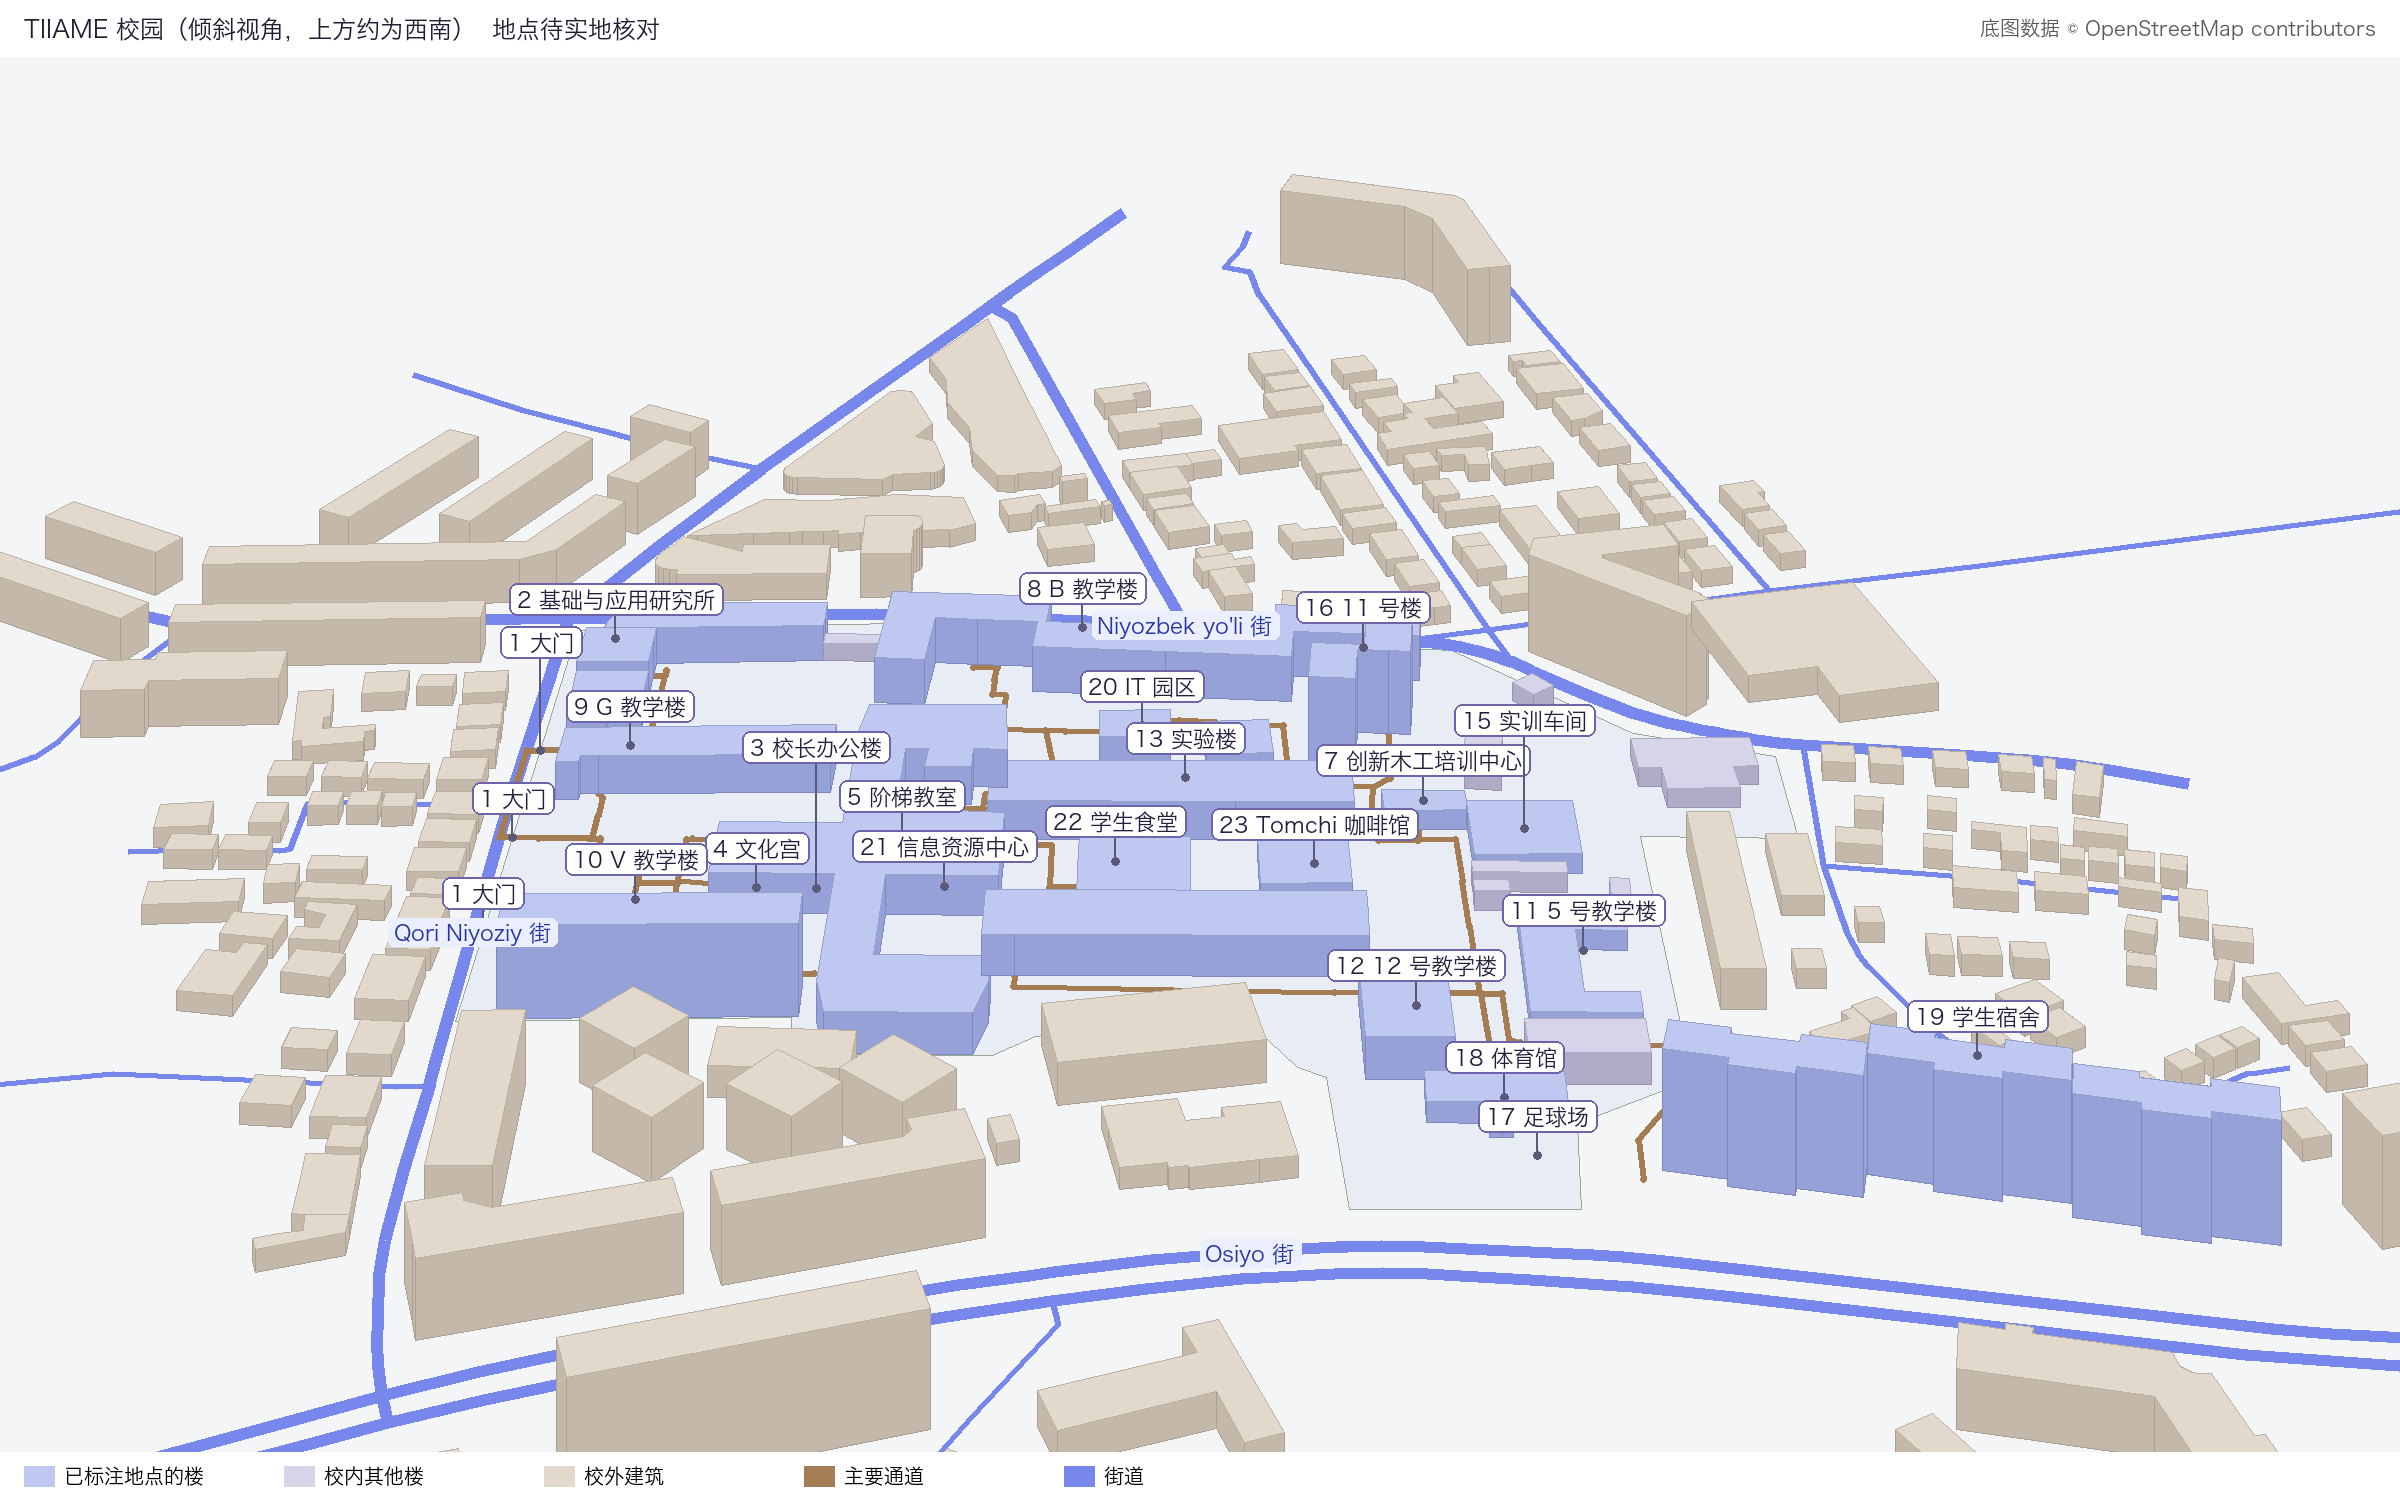
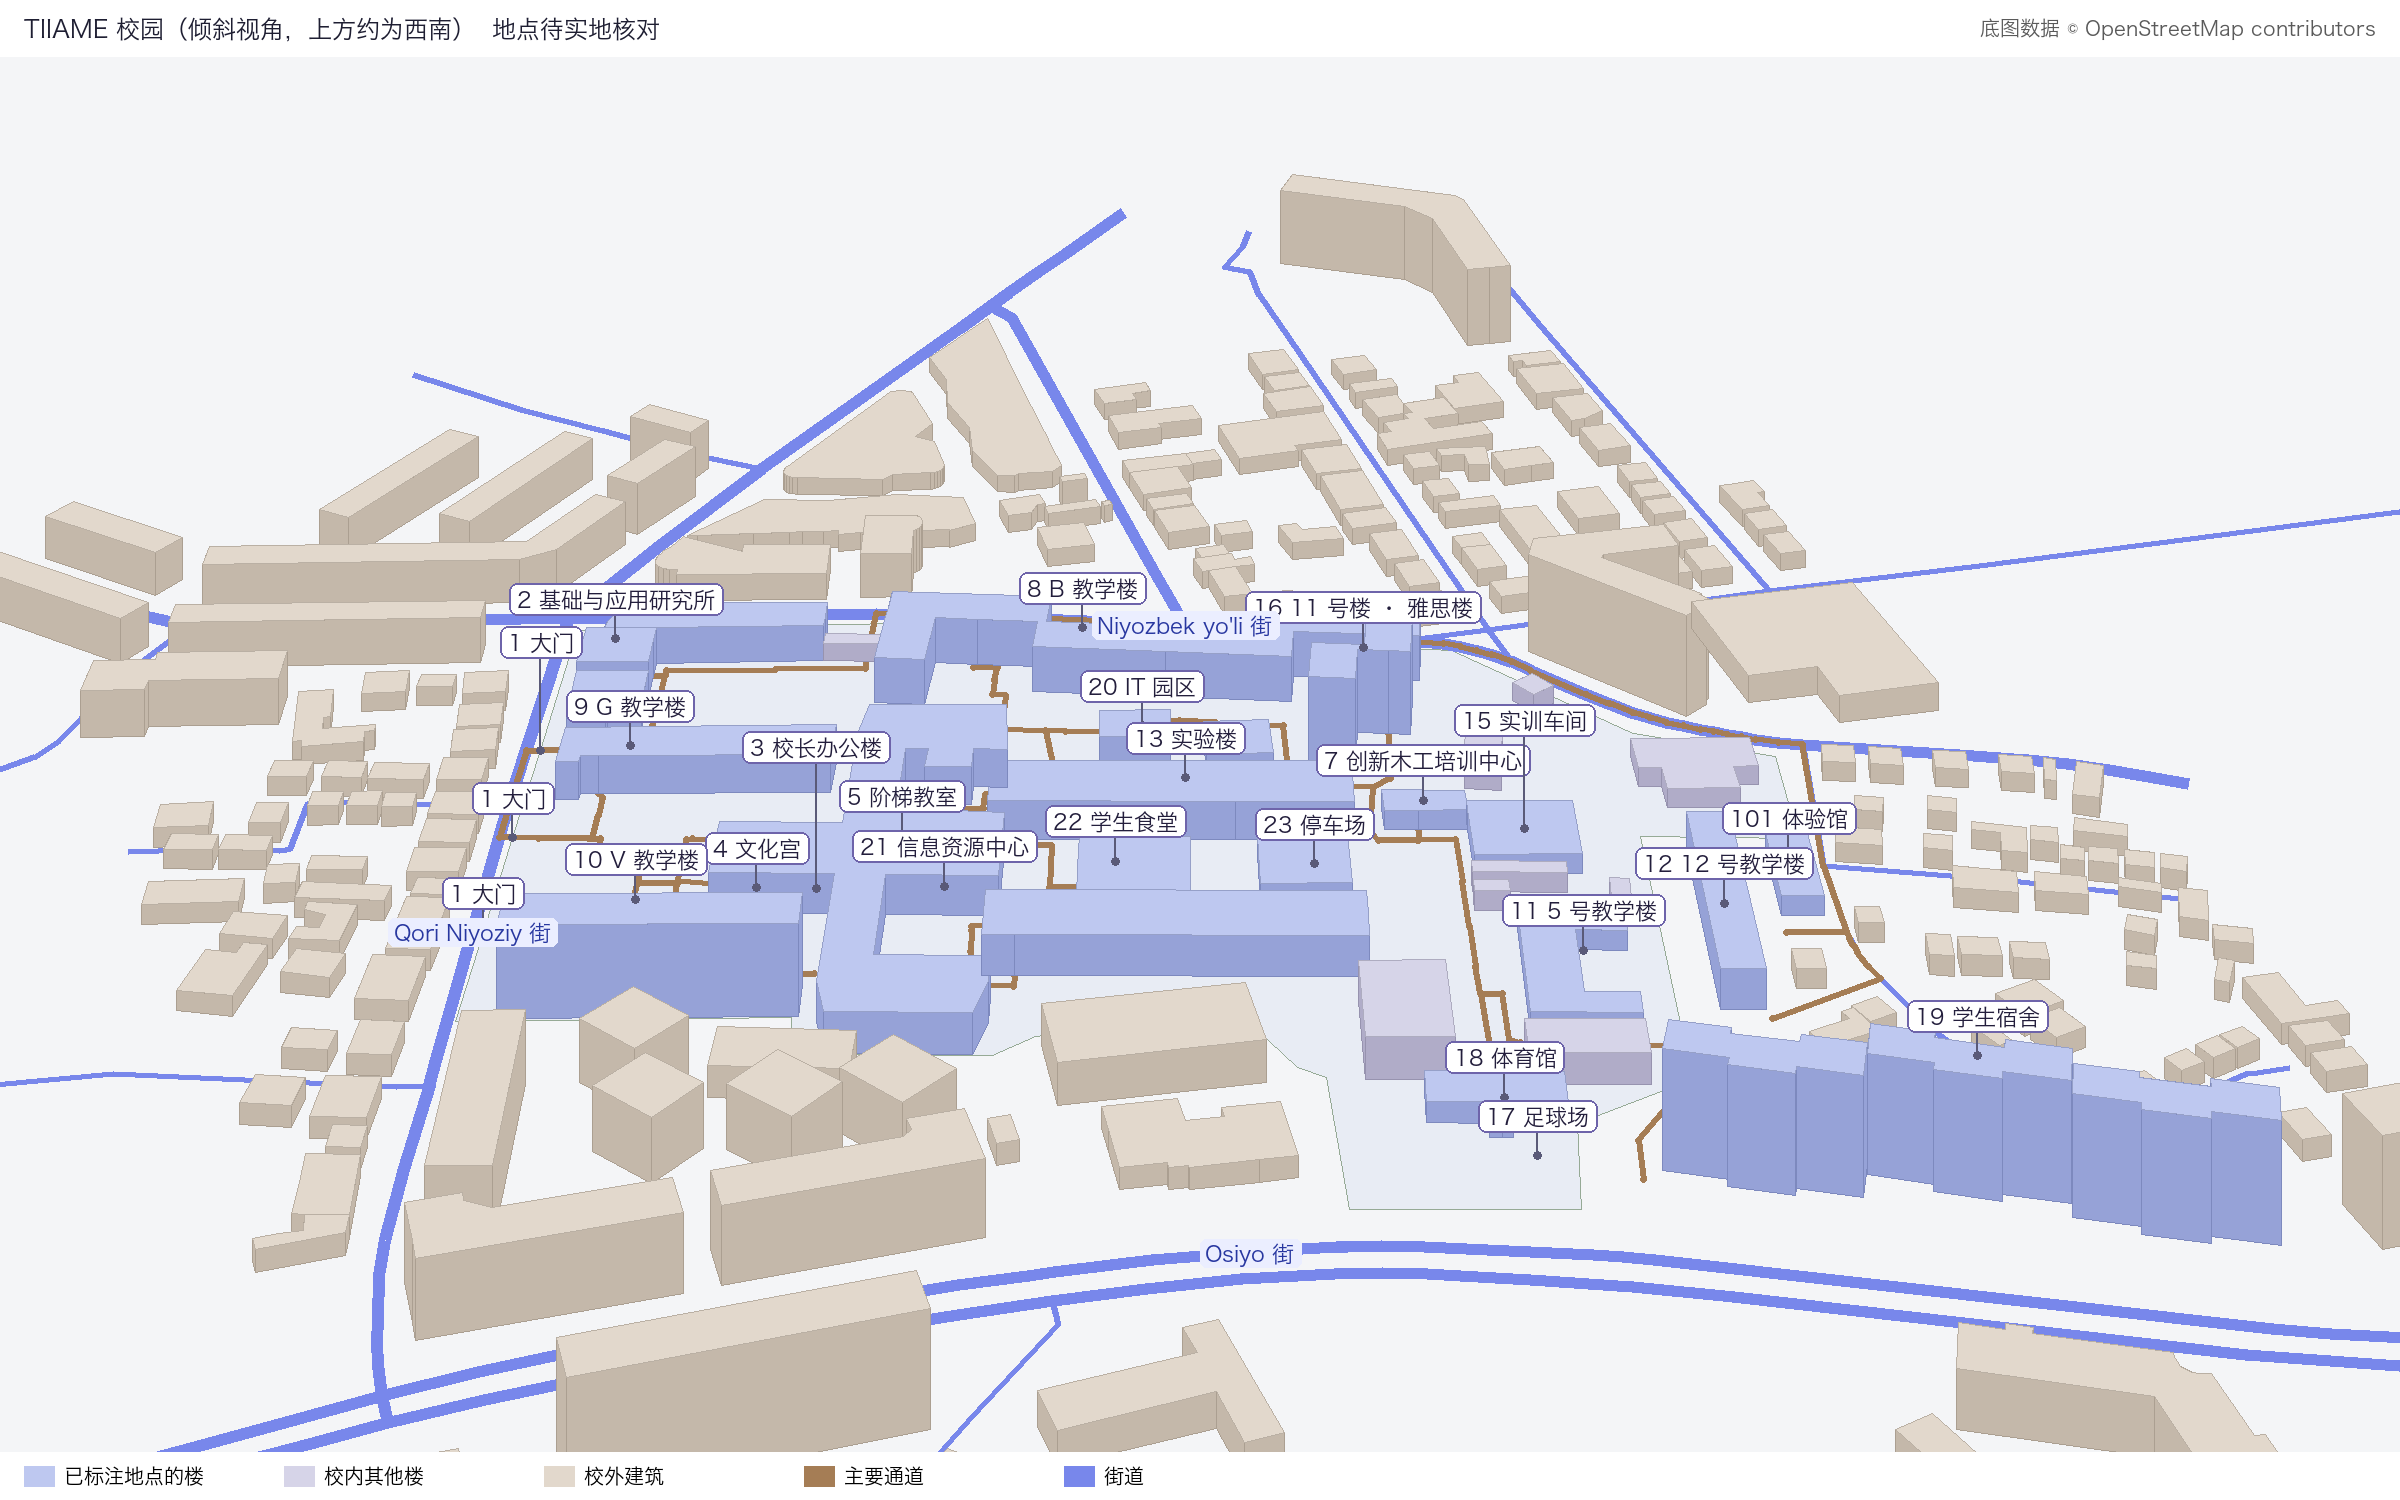
Place building 12 at 39a/1, add experience hall at 39a/2
Both stand outside the campus fence, so places outside it may now join the
street network when routing.

diff --git a/scripts/build_main_paths.py b/scripts/build_main_paths.py
@@ -17,8 +17,8 @@ ROOT = Path(__file__).resolve().parent.parent
 PLACES = json.loads((ROOT / "data/places.candidates.geojson").read_text())
 CONTEXT = json.loads((ROOT / "data/osm-context.geojson").read_text())
 
-# Gates (legend 1) and the dormitory (legend 19) lie on the campus edge or
-# outside it, so they may snap to street nodes too.
+# Gates (legend 1), the dormitory (legend 19) and any place outside the campus
+# fence may join the network at street nodes too.
 ORIGIN_LEGEND = {1, 19}
 # Walking outside the campus fence costs more, so routes stay inside when they can.
 OUTSIDE_PENALTY = 1.5
@@ -67,7 +67,8 @@ def main():
     def snap(feature):
         geom = feature["geometry"]
         verts = [geom["coordinates"]] if geom["type"] == "Point" else geom["coordinates"][0]
-        cand = all_nodes if feature["properties"]["legend_no"] in ORIGIN_LEGEND else campus_nodes
+        outside = not inside((sum(v[0] for v in verts) / len(verts), sum(v[1] for v in verts) / len(verts)), ring)
+        cand = all_nodes if feature["properties"]["legend_no"] in ORIGIN_LEGEND or outside else campus_nodes
         return min(cand, key=lambda n: min(metres(n, v) for v in verts))
 
     # One terminal per building; the dormitory blocks stand side by side, so one

diff --git a/scripts/build_graph.py b/scripts/build_graph.py
@@ -43,7 +43,8 @@ def main():
     for f in PLACES["features"]:
         geom = f["geometry"]
         verts = [geom["coordinates"]] if geom["type"] == "Point" else geom["coordinates"][0]
-        cand = nodes if f["properties"]["legend_no"] in ORIGIN_LEGEND else campus_nodes
+        outside = not inside((sum(v[0] for v in verts) / len(verts), sum(v[1] for v in verts) / len(verts)), ring)
+        cand = nodes if f["properties"]["legend_no"] in ORIGIN_LEGEND or outside else campus_nodes
         best = min(cand, key=lambda n: min(metres(n, v) for v in verts))
         places[f["properties"]["osm_id"]] = index[best]
 
